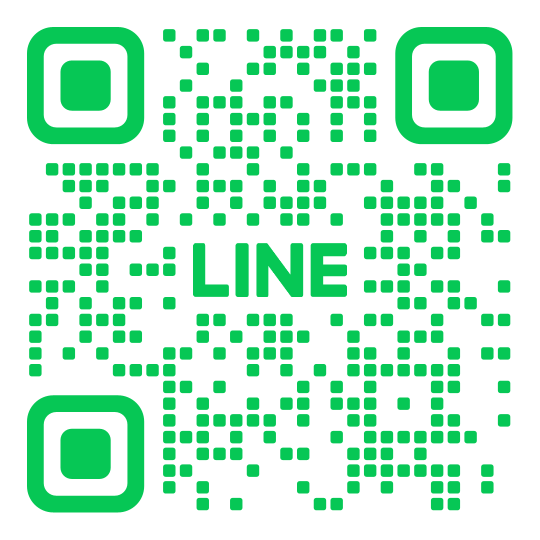
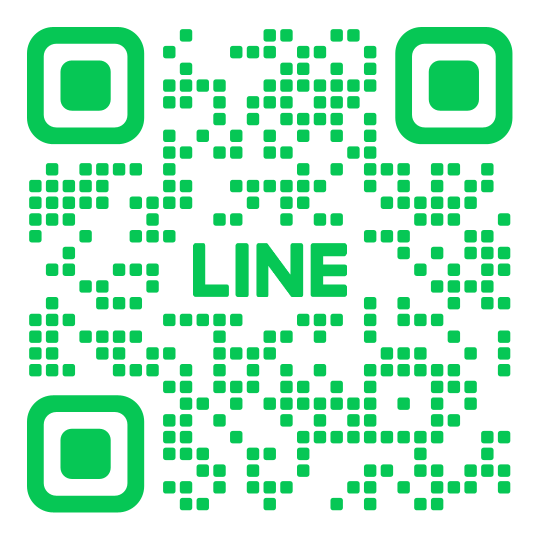
join up page

diff --git a/app/join-us/page.tsx b/app/join-us/page.tsx
@@ -6,27 +6,47 @@ export default function Page() {
   return (
     <div className="mx-auto w-11/12 py-20 md:w-[88vw] md:py-24 lg:w-[68vw]">
       <PageTitle>入会申し込み</PageTitle>
-      <p className="text-lg leading-loose">
-        2023年度は公式LINEから入会フォームに回答していただく流れになっております。入会を少しでも検討されている方は公式LINEの友達追加をお願いいたします！
-      </p>
       <p>
-        URL:
-        <a
-          href="https://lin.ee/gwVPQY5"
-          target="_blank"
-          rel="noreferrer"
-          className="text-blue-700 underline"
-        >
-          https://lin.ee/gwVPQY5
-        </a>
+        入会を希望される方は各種SNS、あるいはGoogleフォームを通じてお問い合わせください！
       </p>
-      <p>QR: </p>
-      <Image
-        src="/line.png"
-        width={200}
-        height={200}
-        alt="東大国際法研の公式LINEQRコード"
-      />
+      <div className="my-4 flex flex-col space-y-4">
+        <div>
+          <h2 className="text-xl font-bold">Line</h2>
+          <Image
+            src="/line.png"
+            width={400}
+            height={400}
+            alt="東大国際法研の公式LINEQRコード"
+          />
+        </div>
+        <div>
+          <h2 className="text-xl font-bold">X</h2>
+          <Image
+            src="/x.png"
+            width={400}
+            height={400}
+            alt="東大国際法研のXQRコード"
+          />
+        </div>
+        <div>
+          <h2 className="text-xl font-bold">Instagram</h2>
+          <Image
+            src="/instagram.png"
+            width={400}
+            height={400}
+            alt="東大国際法研のInstagramQRコード"
+          />
+        </div>
+        <div>
+          <h2 className="text-xl font-bold">Googleフォーム</h2>
+          <Image
+            src="/google-form.png"
+            width={400}
+            height={400}
+            alt="東大国際法研のGoogleFormQRコード"
+          />
+        </div>
+      </div>
     </div>
   );
 }
